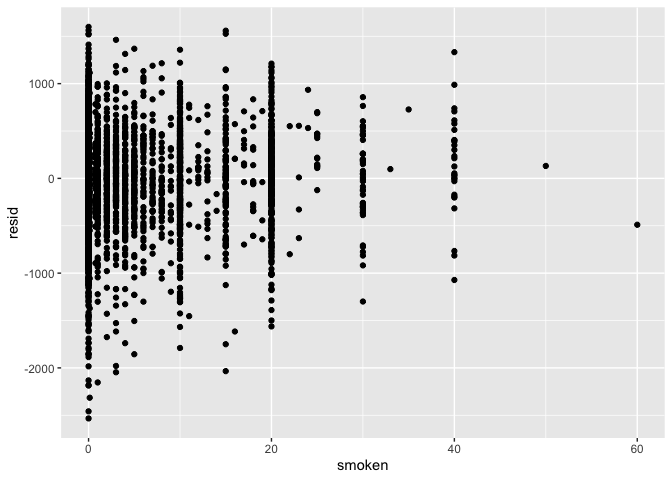
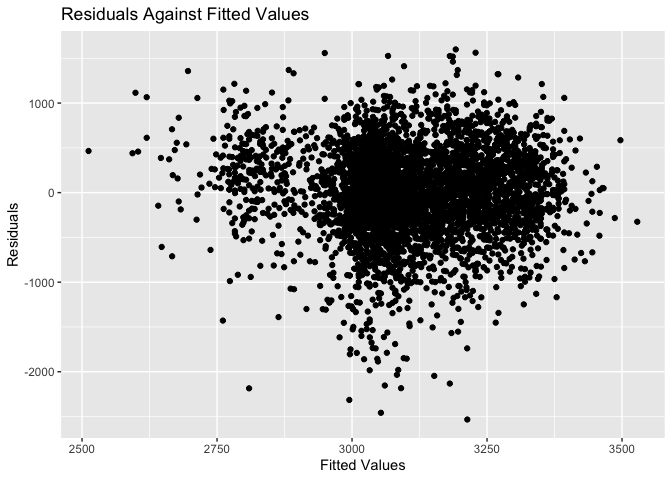
Problem 2, needs interpretations

diff --git a/p8105_hw6_jp3999.md b/p8105_hw6_jp3999.md
@@ -20,7 +20,30 @@ library(tidyverse)
 library(patchwork)
 library(readxl)
 library(broom)
+library (modelr)
 ```
+
+    ## 
+    ## Attaching package: 'modelr'
+
+    ## The following object is masked from 'package:broom':
+    ## 
+    ##     bootstrap
+
+``` r
+library(mgcv)
+```
+
+    ## Loading required package: nlme
+
+    ## 
+    ## Attaching package: 'nlme'
+
+    ## The following object is masked from 'package:dplyr':
+    ## 
+    ##     collapse
+
+    ## This is mgcv 1.8-33. For overview type 'help("mgcv-package")'.
 
 ## Problem 1
 
@@ -177,8 +200,10 @@ knitr::kable(digits=3)
 ``` r
 baby_df %>% 
   modelr::add_residuals(model_fit) %>% 
-  ggplot(aes(x = smoken, y = resid)) + 
-  geom_point()
+  add_predictions(model_fit)%>% 
+  ggplot(aes(x = pred, y = resid)) + 
+  geom_point() +
+  labs(title = "Residuals Against Fitted Values", x = "Fitted Values", y = "Residuals")
 ```
 
 ![](p8105_hw6_jp3999_files/figure-gfm/unnamed-chunk-9-1.png)<!-- -->
@@ -216,3 +241,37 @@ knitr::kable(digits=3)
 | bhead:babysex         |   \-198.393 |    51.092 |   \-3.883 |    0.00 |
 | blength:babysex       |   \-123.773 |    35.119 |   \-3.524 |    0.00 |
 | bhead:blength:babysex |       3.878 |     1.057 |     3.670 |    0.00 |
+
+``` r
+cv_df = 
+   crossv_mc(baby_df, 100)%>% 
+  mutate(
+    train = map(train, as_tibble), 
+    test = map(test, as_tibble)
+  )
+  cv_df = 
+  cv_df %>% 
+  mutate(
+    model_fit  = map(train, ~lm(bwt ~ smoken +mrace +momage + fincome, data =.x)), 
+    model_one= map(train, ~ lm(bwt ~ blength + gaweeks, data =.x)),
+    model_two= map(train, ~ lm(bwt ~ bhead*blength + bhead*babysex +  blength*babysex + blength*babysex*bhead, data =.x))) %>%
+
+   mutate(
+    rmse_fit = map2_dbl(model_fit, test, ~rmse(model = .x, data = .y)),
+    rmse_1    = map2_dbl(model_one, test, ~rmse(model = .x, data = .y)),
+    rmse_2 = map2_dbl(model_two, test, ~rmse(model = .x, data = .y)))
+
+cv_df %>% 
+  select(starts_with("rmse")) %>% 
+  pivot_longer(
+    everything(),
+    names_to = "model", 
+    values_to = "rmse",
+    names_prefix = "rmse_") %>% 
+  mutate(model = fct_inorder(model)) %>% 
+  ggplot(aes(x = model, y = rmse)) + geom_violin()
+```
+
+![](p8105_hw6_jp3999_files/figure-gfm/unnamed-chunk-13-1.png)<!-- -->
+
+Model 2 is the best given lower rmse
